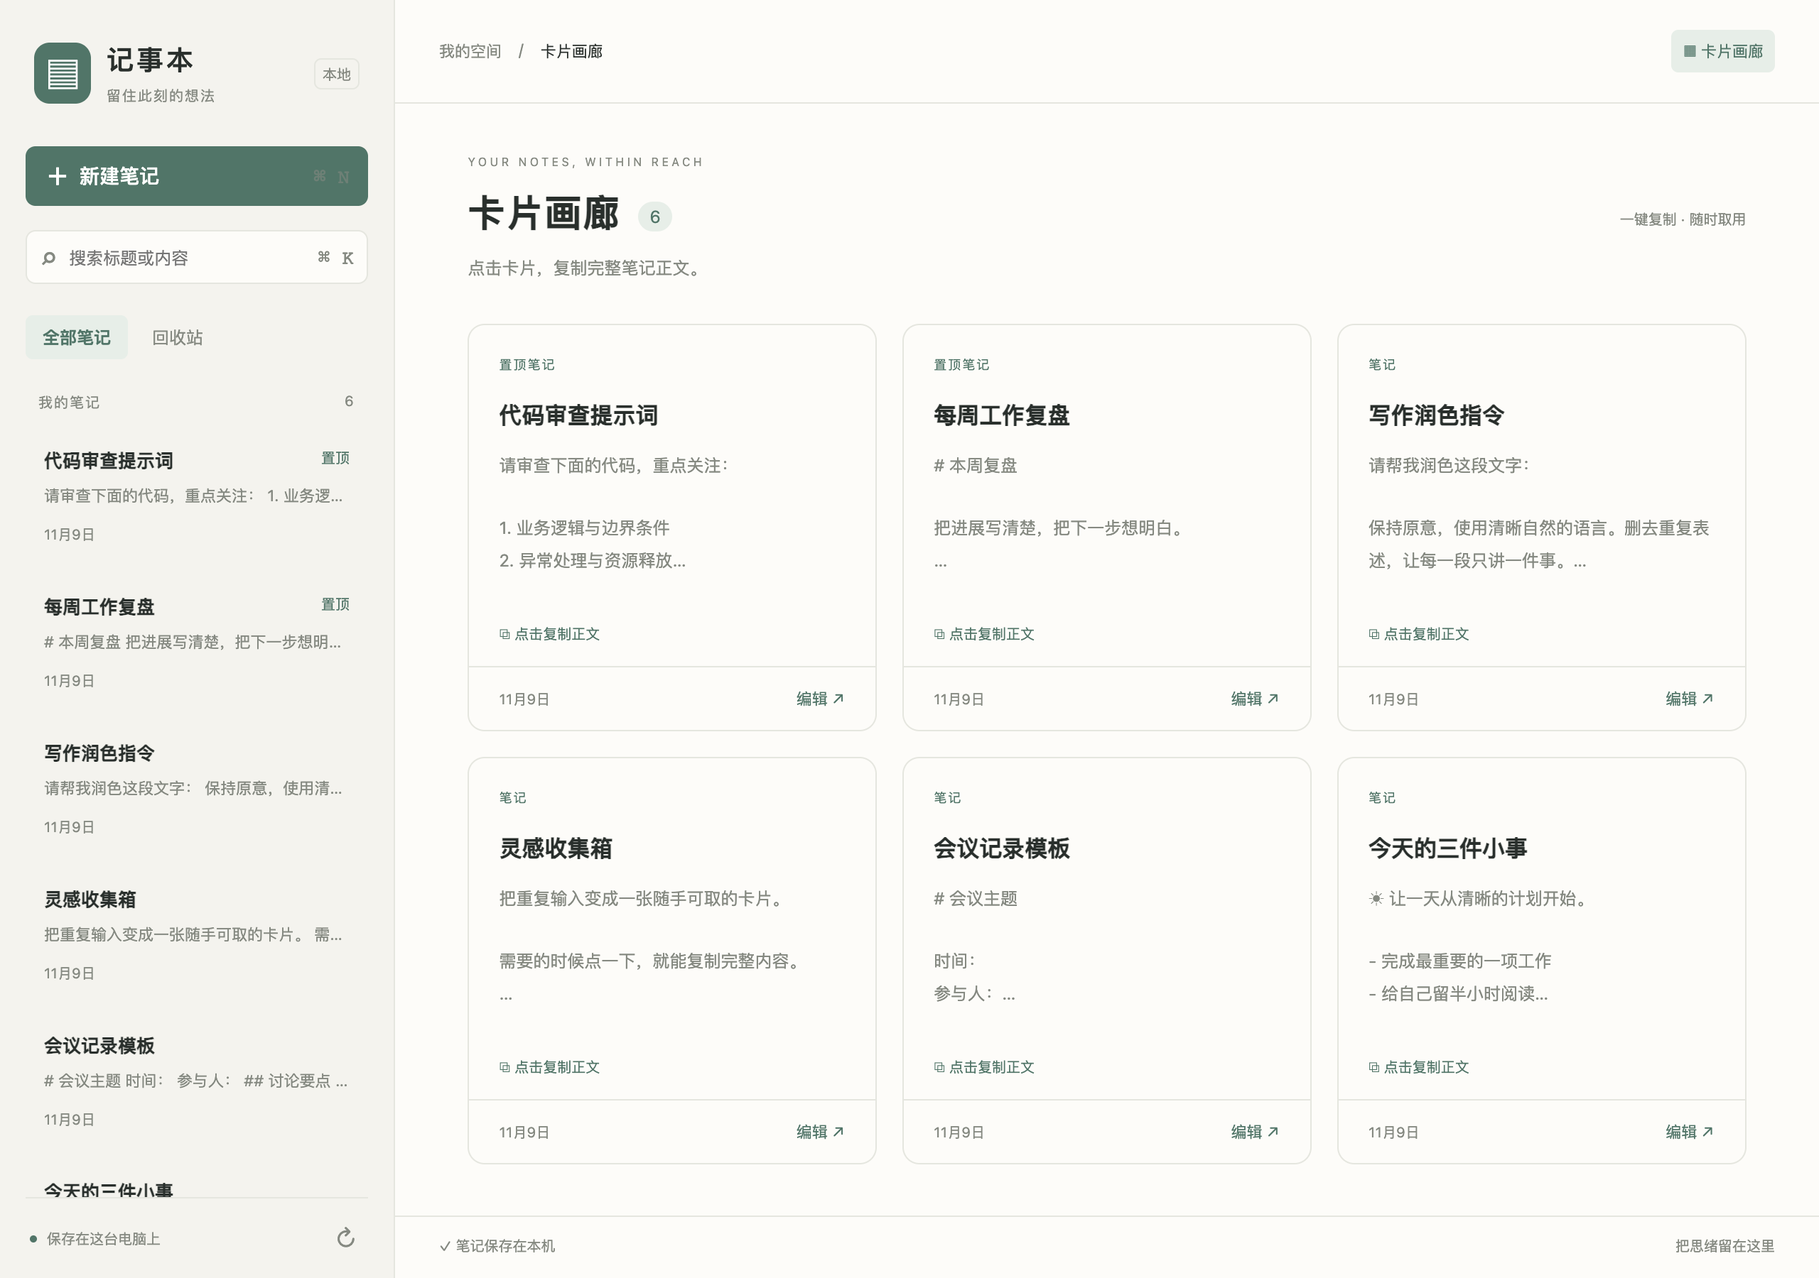
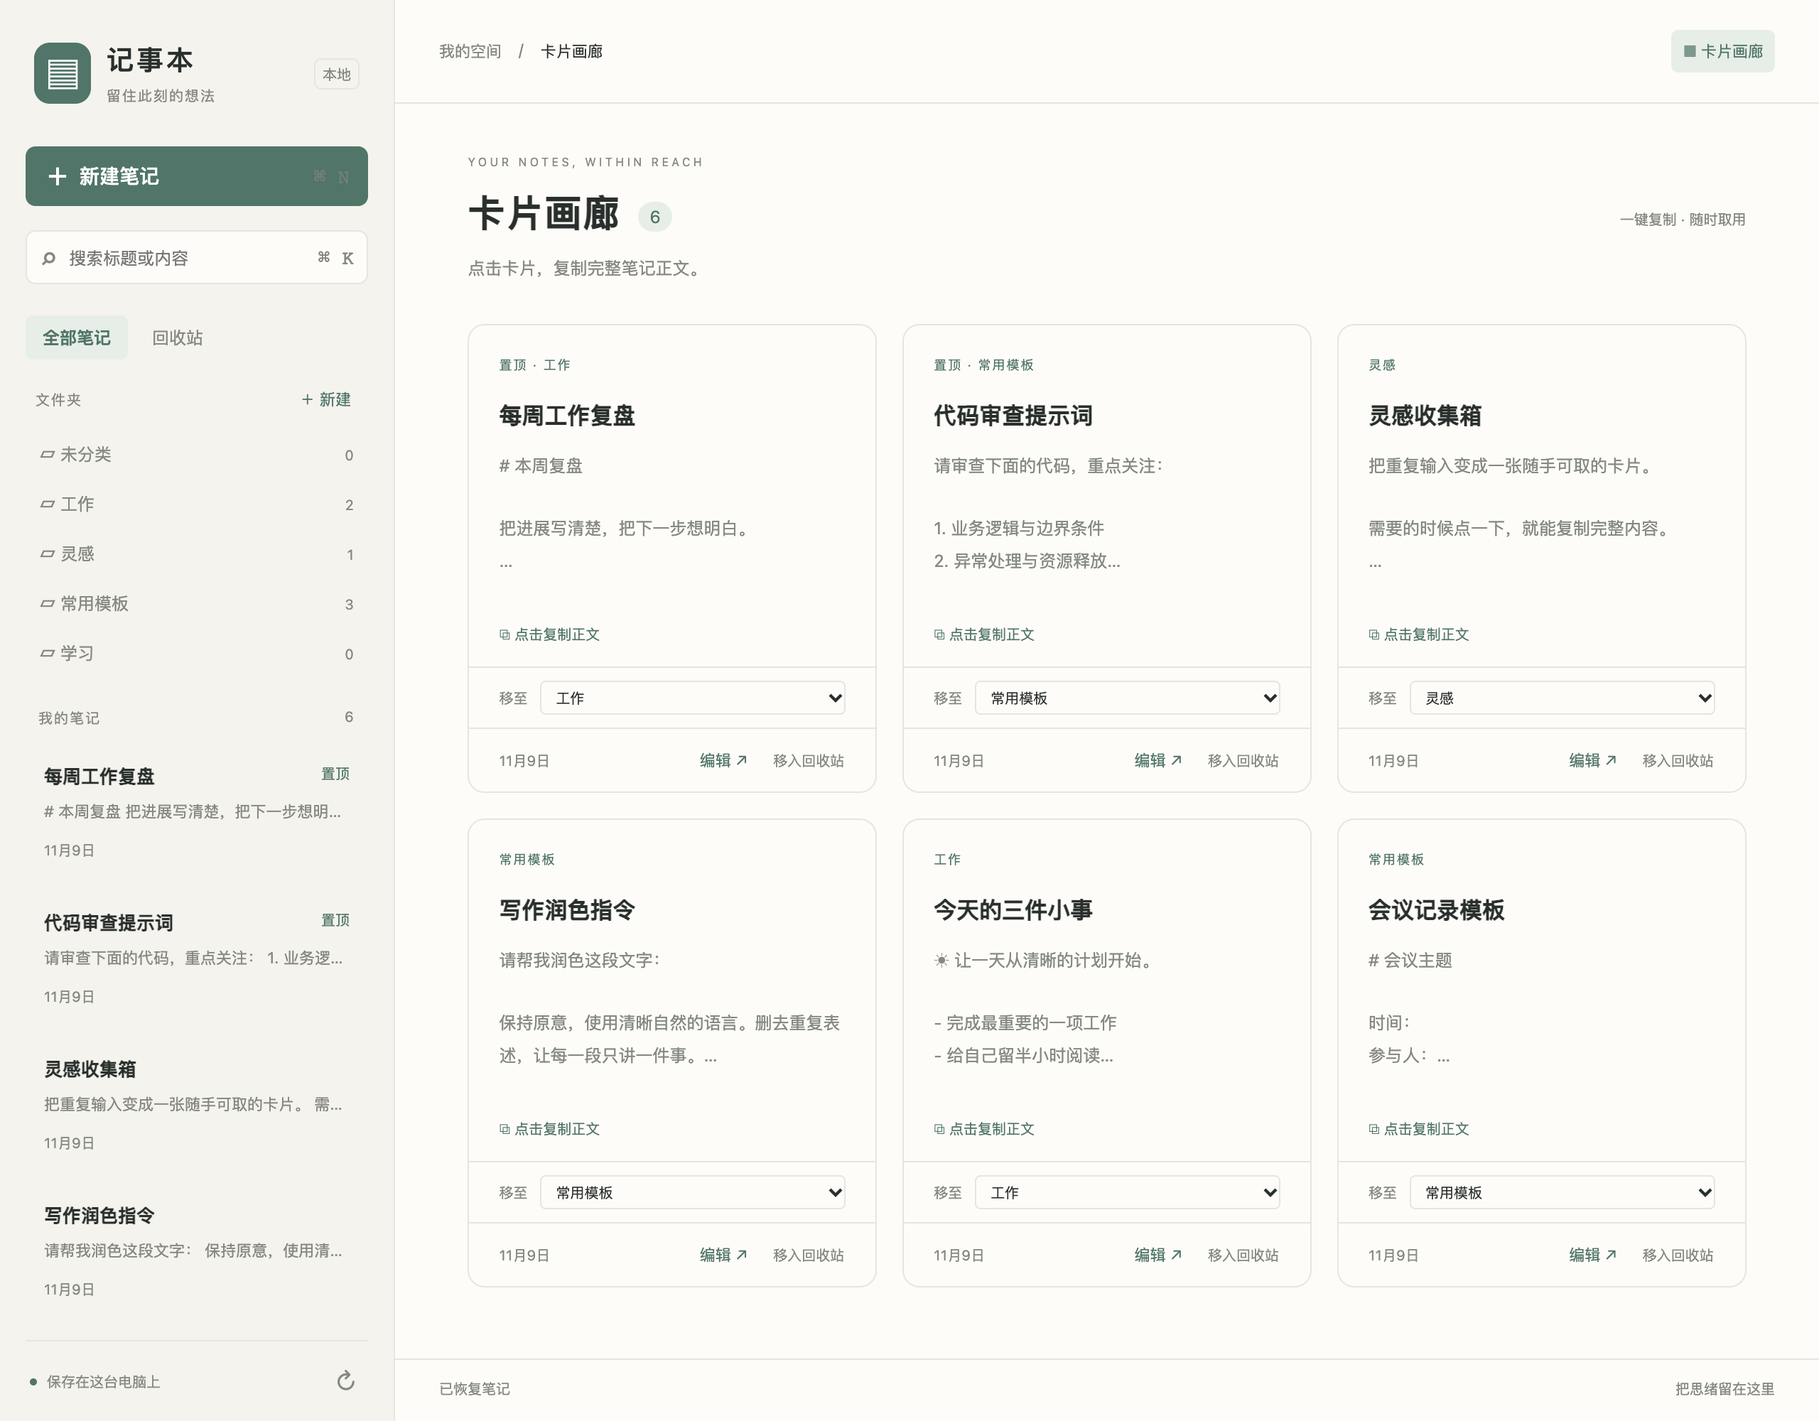
Add note folders and quick trash actions on gallery cards

diff --git a/web/style.css b/web/style.css
@@ -6,3 +6,4 @@
 @media(max-width:740px){.notebook{grid-template-columns:215px minmax(0,1fr)}.sidebar{padding:20px 12px 0}.brand{margin-bottom:22px;gap:8px}.brand small{font-size:9px}.brand-icon{width:33px;height:37px}.local-badge,.search kbd,.new-note kbd{display:none}.toolbar{padding:0 17px;min-height:60px;flex-wrap:wrap;align-content:center;gap:5px}.toolbar-actions button{padding:5px;font-size:10px}.breadcrumb{font-size:10px}.editor{padding:30px 22px 20px}.title-input{font-size:25px}.editor-footer{padding:12px 17px}.empty{padding:20px 15px}.empty h1{font-size:21px}.eyebrow{font-size:7px;letter-spacing:1px}}
 @media(max-width:470px){.notebook{grid-template-columns:145px minmax(0,1fr)}.sidebar{padding:17px 8px 0}.brand{margin:0 0 20px;gap:7px}.brand small{display:none}.brand strong{font-size:16px}.brand-icon{width:28px;height:31px;font-size:23px}.filters{gap:1px}.filters button{padding:7px;font-size:10px}.sidebar-footer{font-size:8px;gap:4px}.search{padding:7px 5px}.search input{font-size:10px}.note-card{padding:12px 8px}.editor{padding:24px 15px}.title-input{font-size:21px}.toolbar{padding:0 10px}.empty h1{font-size:17px;letter-spacing:0}.empty-art{transform:scale(.8)}.eyebrow{display:none}.editor-footer{padding:12px 10px;font-size:9px}.breadcrumb span:last-child{max-width:90px}.toolbar-actions{flex-wrap:wrap}.error-banner{margin:10px;padding:9px}.error-banner div{flex-wrap:wrap}}
 .gallery{flex:1;overflow:auto;padding:36px clamp(20px,4vw,56px) 40px}.gallery-heading{display:flex;align-items:center;justify-content:space-between;gap:18px;margin-bottom:29px}.gallery-heading .eyebrow{margin:0 0 12px}.gallery-heading h1{font-size:26px;font-weight:550;letter-spacing:1px;margin:0 0 11px}.gallery-heading h1 span{font-size:12px;font-weight:400;letter-spacing:0;background:var(--green-soft);color:var(--green);padding:3px 8px;border-radius:20px;margin-left:12px;vertical-align:middle}.gallery-heading p:last-child{font-size:12px;color:var(--muted);margin:0;line-height:1.7}.gallery-hint{font-size:10px;color:var(--muted);white-space:nowrap}.gallery-grid{display:grid;grid-template-columns:repeat(auto-fill,minmax(min(100%,235px),1fr));gap:18px;align-items:start}.gallery-card{background:var(--paper);border:1px solid var(--line);border-radius:12px;overflow:hidden;transition:border-color .15s,box-shadow .15s,transform .15s;min-width:0}.gallery-card:hover{border-color:var(--green);box-shadow:0 6px 22px #00000009;transform:translateY(-2px)}.gallery-copy{display:flex;flex-direction:column;width:100%;height:240px;text-align:left;padding:21px 21px 15px;position:relative}.gallery-copy:hover{background:var(--green-soft)}.gallery-copy:focus-visible{outline-offset:-4px;border-radius:11px}.gallery-card-label{font-size:9px;letter-spacing:1px;color:var(--green);margin-bottom:17px}.gallery-copy h2{font-size:16px;font-weight:550;line-height:1.6;margin:0 0 11px;display:-webkit-box;-webkit-line-clamp:2;-webkit-box-orient:vertical;overflow:hidden;overflow-wrap:anywhere;flex-shrink:0}.gallery-copy p{font-size:12px;line-height:1.85;white-space:pre-wrap;overflow-wrap:anywhere;color:var(--muted);margin:0;display:-webkit-box;-webkit-line-clamp:4;-webkit-box-orient:vertical;overflow:hidden}.gallery-copy-hint{margin-top:auto;padding-top:16px;font-size:10px;color:var(--green)}.gallery-card footer{display:flex;align-items:center;justify-content:space-between;border-top:1px solid var(--line);padding:9px 15px 9px 21px;font-size:10px;color:var(--muted)}.gallery-edit{font-size:11px;padding:5px 7px;border-radius:5px;color:var(--green)}.gallery-empty{display:flex;flex-direction:column;align-items:center;justify-content:center;min-height:310px;text-align:center;color:var(--muted);border:1px dashed var(--line);border-radius:12px;padding:25px}.gallery-empty>span{font-size:42px;color:var(--green);opacity:.6}.gallery-empty h2{font-size:17px;font-weight:500;color:var(--ink);margin:19px 0 10px}.gallery-empty p{font-size:12px;line-height:1.8;margin:0 0 23px}.gallery-empty button{font-size:12px;padding:10px 17px}.copy-toast{position:fixed;bottom:58px;left:50%;transform:translateX(-50%);z-index:10;max-width:min(90vw,500px);padding:12px 20px;border-radius:9px;background:var(--ink);color:var(--paper);box-shadow:0 6px 25px #0003;font-size:12px;line-height:1.7;overflow-wrap:anywhere;pointer-events:none}.copy-toast.failed{background:var(--error);color:white}@media(max-width:740px){.gallery{padding:28px 20px}.gallery-hint{display:none}.gallery-heading h1{font-size:23px}.gallery-grid{gap:13px}.gallery-copy{height:220px;padding:18px 17px 13px}.gallery-card footer{padding-left:17px}}@media(max-width:470px){.gallery{padding:23px 12px}.gallery-heading h1{font-size:20px}.gallery-heading h1 span{margin-left:6px}.gallery-copy{padding:15px 12px;height:215px}.gallery-card footer{padding-left:12px}.gallery-empty{padding:20px 12px}.gallery-empty h2{font-size:14px}.toolbar-actions{flex-shrink:1}}
+.folder-section{margin-bottom:20px}.folder-heading{display:flex;align-items:center;justify-content:space-between;padding:0 7px 7px;font-size:10px;letter-spacing:1px;color:var(--muted)}.folder-heading button{font-size:11px;letter-spacing:0;border-radius:4px;padding:5px;color:var(--green)}.folder-list{max-height:180px;overflow-y:auto}.folder-item{display:flex;align-items:center;justify-content:space-between;gap:10px;width:100%;text-align:left;padding:8px 10px;border-radius:5px;margin:2px 0;font-size:12px;color:var(--muted)}.folder-item>span:first-child{overflow:hidden;text-overflow:ellipsis;white-space:nowrap}.folder-count{font-size:10px;flex-shrink:0}.folder-item.active{background:var(--green-soft);color:var(--green);font-weight:550}.folder-form{padding:8px;border:1px solid var(--line);border-radius:6px;margin:2px 0 8px}.folder-form input{width:100%;min-width:0;border:1px solid var(--line);border-radius:4px;padding:7px;background:var(--paper);font-size:12px}.folder-form>div{display:flex;gap:7px;justify-content:flex-end;margin-top:7px}.folder-form button{font-size:11px;color:var(--green);padding:5px 8px;border-radius:4px}.folder-form p{font-size:11px;color:var(--error);line-height:1.6;margin:6px 0 0}.gallery-heading h1 #gallery-title{font-size:inherit;font-weight:inherit;letter-spacing:inherit;background:none;color:inherit;padding:0;border-radius:0;margin-left:0;vertical-align:baseline;overflow-wrap:anywhere}.gallery-card-actions{display:flex;align-items:center;gap:4px;flex-shrink:0}.gallery-trash{font-size:10px;border-radius:5px;padding:5px 7px;color:var(--muted)}.gallery-trash:hover{color:var(--error);background:#a14c4212}.gallery-folder{display:flex;align-items:center;gap:9px;padding:9px 21px;border-top:1px solid var(--line);font-size:10px;color:var(--muted)}.gallery-folder select,.editor-folder select{font:inherit;border:1px solid var(--line);border-radius:4px;padding:4px 6px;background:var(--paper);color:var(--ink);min-width:0;max-width:100%}.gallery-folder select{flex:1;width:0}.editor-folder{display:flex;align-items:center;gap:6px;margin-left:auto;max-width:45%;min-width:0}.editor-folder select{max-width:160px;width:100%}.note-meta{flex-wrap:wrap}.filters{margin-bottom:15px}@media(max-width:740px){.gallery-folder{padding:8px 17px}.editor-folder{margin-left:0;max-width:100%}}@media(max-width:470px){.folder-item{font-size:10px;padding:7px}.folder-heading{padding-left:5px}.folder-list{max-height:140px}.gallery-folder{padding:8px 12px}.gallery-card footer{flex-wrap:wrap;gap:5px}.editor-folder select{max-width:130px}}

diff --git a/web/index.html b/web/index.html
@@ -8,6 +8,15 @@
     <button class="new-note" id="new-note"><span aria-hidden="true">＋</span> 新建笔记 <kbd>⌘ N</kbd></button>
     <label class="search"><span aria-hidden="true">⌕</span><input id="search" type="search" placeholder="搜索标题或内容" aria-label="搜索笔记" maxlength="500"><kbd>⌘ K</kbd></label>
     <nav class="filters" aria-label="笔记分类"><button id="active-filter" class="active" aria-pressed="true">全部笔记</button><button id="trash-filter" aria-pressed="false">回收站</button></nav>
+    <section class="folder-section" aria-label="文件夹">
+      <div class="folder-heading"><span>文件夹</span><button id="new-folder" aria-expanded="false" aria-controls="folder-form" title="新建文件夹">＋ 新建</button></div>
+      <form id="folder-form" class="folder-form" hidden>
+        <label class="sr-only" for="folder-name">文件夹名称</label><input id="folder-name" placeholder="文件夹名称" maxlength="80" required autocomplete="off">
+        <div><button type="submit" id="create-folder">创建</button><button type="button" id="cancel-folder">取消</button></div>
+        <p id="folder-error" role="alert" hidden></p>
+      </form>
+      <nav id="folder-list" class="folder-list" aria-label="按文件夹筛选"></nav>
+    </section>
     <div class="list-heading"><span id="list-heading">我的笔记</span><span id="note-count">0</span></div>
     <div id="note-list" class="note-list" role="list" aria-label="笔记列表"></div>
     <footer class="sidebar-footer"><span class="dot"></span> 保存在这台电脑上 <button id="refresh" title="重新加载列表" aria-label="重新加载列表">↻</button></footer>
@@ -16,13 +25,13 @@
     <header class="toolbar"><div class="breadcrumb">我的空间 <span>/</span> <span id="current-label">卡片画廊</span></div><div class="toolbar-actions"><button id="gallery-toggle" aria-pressed="true">▦ 卡片画廊</button><button id="preview-toggle" hidden aria-pressed="false">预览</button><button id="export-note" hidden>导出</button><button id="pin-note" hidden aria-pressed="false">置顶</button><button id="trash-note" hidden class="danger">移入回收站</button><button id="restore-note" hidden>恢复笔记</button></div></header>
     <div id="error-banner" class="error-banner" role="alert" hidden><span id="error-message"></span><div><button id="save-copy">另存为新笔记</button><button id="reload-note">重新加载</button><button id="retry-save">重试保存</button></div></div>
     <section id="gallery" class="gallery" aria-label="笔记卡片画廊">
-      <header class="gallery-heading"><div><p class="eyebrow">YOUR NOTES, WITHIN REACH</p><h1>卡片画廊<span id="gallery-count">0</span></h1><p>点击卡片，复制完整笔记正文。</p></div><span class="gallery-hint">一键复制 · 随时取用</span></header>
+      <header class="gallery-heading"><div><p class="eyebrow">YOUR NOTES, WITHIN REACH</p><h1><span id="gallery-title">卡片画廊</span><span id="gallery-count">0</span></h1><p>点击卡片，复制完整笔记正文。</p></div><span class="gallery-hint">一键复制 · 随时取用</span></header>
       <div id="gallery-grid" class="gallery-grid"></div>
       <div id="gallery-empty" class="gallery-empty"><span aria-hidden="true">▤</span><h2 id="gallery-empty-title">把常用的内容，放在手边。</h2><p id="gallery-empty-text">新建一篇笔记，就会在这里生成卡片。</p><button id="gallery-create" class="primary">＋ 新建笔记</button></div>
     </section>
     <section id="empty" class="empty"><div class="empty-art" aria-hidden="true"><svg width="100" height="115" viewBox="0 0 100 115" fill="none"><rect x="19" y="11" width="66" height="90" rx="8" transform="rotate(7 19 11)" fill="currentColor" opacity=".10"/><rect x="13" y="6" width="66" height="90" rx="8" fill="var(--paper)" stroke="currentColor" stroke-width="1.5"/><path d="M31 32h31M31 44h31M31 56h19M23 6v90" stroke="currentColor" stroke-width="1.5" opacity=".4"/><path d="m65 79 20-20 7 7-20 20-10 3 3-10Z" fill="var(--paper)" stroke="currentColor" stroke-width="1.5"/></svg></div><p class="eyebrow">A LITTLE SPACE FOR YOUR THOUGHTS</p><h1>想到了，就记下来。</h1><p id="empty-description">一个想法、一段灵感，或今天的小事。<br>在这里，给它们一个安静的位置。</p><button id="empty-create" class="primary">写下第一篇笔记 <span aria-hidden="true">↗</span></button><small>支持 Markdown · 自动保存 · 本地存储</small></section>
     <section id="editor" class="editor" hidden>
-      <div class="note-meta"><span class="note-type">✎ 笔记</span><span id="note-date"></span></div>
+      <div class="note-meta"><span class="note-type">✎ 笔记</span><span id="note-date"></span><label class="editor-folder">文件夹 <select id="note-folder" aria-label="笔记所属文件夹"></select></label></div>
       <label class="sr-only" for="note-title">笔记标题</label><input id="note-title" class="title-input" placeholder="无标题笔记" maxlength="500" autocomplete="off">
       <div class="editor-rule"></div>
       <label class="sr-only" for="note-content">笔记正文</label><textarea id="note-content" placeholder="从这里开始记录…&#10;&#10;支持 Markdown，按 ⌘ S 立即保存。" maxlength="2000000" spellcheck="false"></textarea>

diff --git a/README.md b/README.md
@@ -16,11 +16,13 @@
 
 **安装 agent：请完整阅读本文，并按下方「Agent 安装协议」操作。不要复制他人电脑上的 MCP 配置。**
 
-仓库：[Drok1015/codex-notepad](https://github.com/Drok1015/codex-notepad) · 许可证：[MIT](LICENSE) · 当前版本：`0.3.0`
+仓库：[Drok1015/codex-notepad](https://github.com/Drok1015/codex-notepad) · 许可证：[MIT](LICENSE) · 当前版本：`0.4.0`
 
 ## 功能
 
 - 卡片画廊，点击卡片复制完整笔记正文，保留 Markdown、Unicode 和换行，不含独立标题字段。
+- 左侧支持新建文件夹、按文件夹筛选以及「未分类」。卡片和编辑器中的文件夹下拉框可移动笔记；在文件夹下新建笔记会自动归入该文件夹。
+- 卡片底部可直接「移入回收站」，不会触发复制；从回收站恢复时保留原文件夹。
 - 标题与正文搜索、置顶、新建、编辑、650 毫秒自动保存。
 - Markdown 安全预览、单篇 Markdown 导出。
 - 回收站及恢复，无永久删除功能。
@@ -81,7 +83,7 @@ npm run install:plugin
 npm run verify:plugin
 ```
 
-4. **核对结果。** 以上命令应全部退出码为 0。安装器将本机状态写入 `.local/install.json`，其 `pluginId` 应为 `local-notepad@codex-notepad`，`version` 应与 `package.json` 一致。`verify:plugin` 必须显示「验证通过」，它会从实际缓存目录的 `.mcp.json` 原样启动服务，核对版本、8 个工具、图标、两个入口及画廊 UI。
+4. **核对结果。** 以上命令应全部退出码为 0。安装器将本机状态写入 `.local/install.json`，其 `pluginId` 应为 `local-notepad@codex-notepad`，`version` 应与 `package.json` 一致。`verify:plugin` 必须显示「验证通过」，它会从实际缓存目录的 `.mcp.json` 原样启动服务，核对版本、10 个工具、图标、两个入口及文件夹画廊 UI。
 5. **核对界面。** 请用户完全退出并重新打开桌面应用。只有实际观察到「记事本」入口与卡片画廊，才能报告界面验证通过。如果工具不能访问应用界面，明确写「服务验证通过；界面待用户确认」，不要将预览网页或工具列表当成侧边栏显示的证据。不要自动结束用户正在进行的聊天或强制退出应用。
 6. **报告。** 提供安装版本、插件 ID、测试和握手结果、是否验证实际界面，以及下一步。任何阶段失败都先定位该阶段，不能跳过失败继续声称安装完成。
 
@@ -105,6 +107,8 @@ bash scripts/install.sh
 ```
 
 重启桌面应用后生效。更新不会删除笔记。更换机器、移除所用 Node 版本，或移动用于插件源的源码目录后，应重新执行安装器。若提示同名 marketplace 已来自旧目录，先检查 `codex plugin marketplace list`；只有确认旧目录属于本插件后，才移除该源并在新目录重新安装。
+
+0.4.0 会自动为旧数据库添加文件夹表和笔记的 `folder_id` 列。原笔记默认归入「未分类」，保留正文、ID、置顶、时间、版本及回收站状态。文件夹为单层分类，当前提供新建与移动，不提供重命名、删除或嵌套。
 
 卸载本插件：
 
@@ -157,12 +161,14 @@ NOTEPAD_DATA_DIR=/tmp/codex-notepad-demo npm start
 | 路径 | 职责 |
 | --- | --- |
 | `server/store.mjs` | SQLite 持久化、版本检查和回收站 |
-| `server/index.mjs`、`server/tools.mjs` | MCP 服务、UI 资源和 8 个工具 |
+| `server/index.mjs`、`server/tools.mjs` | MCP 服务、UI 资源和 10 个工具 |
 | `server/clipboard.mjs` | macOS UTF-8 剪贴板写入 |
 | `web/` | 画廊、编辑器和经过 DOMPurify 处理的 Markdown 预览 |
 | `scripts/install.sh`、`scripts/install.mjs` | 依赖、构建、测试、路径探测和安装 |
 | `scripts/verify.mjs` | 实际缓存包的握手与入口验证 |
 | `tests/` | 存储、冲突、UI、复制和含中文空格目录的安装测试 |
+
+文件夹工具：`list_folders` 返回文件夹和有效笔记数量，`create_folder` 新建文件夹。`list_notes` 的 `folderId` 省略时查询所有分类、传 `null` 查询未分类、传 UUID 查询指定文件夹；搜索词与分类同时生效。`create_note` 可传 `folderId`，`update_note` 使用最新 `version` 更新 `folderId`（`null` 移回未分类）。移动与删除均执行版本冲突检查。
 
 维护要求：修改安装、工具契约、功能或最低版本时，同步更新本 README、`AGENTS.md` 和测试。版本发布时同步 `package.json`、锁文件、插件 manifest、MCP serverInfo、前端 App 版本与本 README；UI 发生不兼容变更时升级资源 URI。CI 在 macOS 和 Linux 上构建测试；Linux 跳过 macOS 安装集成测试。
 

diff --git a/AGENTS.md b/AGENTS.md
@@ -7,4 +7,5 @@
 - 开发时，安装脚本、功能、工具契约或最低版本变更，必须同时更新 README 和相关测试。
 - 只运行测试和构建不会安装插件。未经用户安装意图，不运行 `scripts/install.sh` 或 `install:plugin`。
 - 测试使用临时数据库和模拟剪贴板；不要读取个人笔记或覆盖实际剪贴板来测试。
+- 修改文件夹功能时覆盖旧数据库迁移、未分类、文件夹计数、移动的版本冲突与回收站恢复后的分类保留；卡片的编辑、移动和回收站操作不得触发复制。
 - 提交前运行 `npm run build` 和 `npm test`。不提交生成目录、本机路径、笔记、环境变量或凭据。

diff --git a/CHANGELOG.md b/CHANGELOG.md
@@ -1,5 +1,12 @@
 # Changelog
 
+## 0.4.0
+
+- 左侧文件夹创建与筛选，卡片和编辑器可移动笔记，新笔记继承当前文件夹。
+- 卡片增加便捷「移入回收站」按钮，恢复后保留原文件夹。
+- 旧数据库自动迁移，原有笔记归入未分类，内容与元数据保留。
+- 新增 `list_folders`、`create_folder` 工具，并为笔记工具增加 `folderId` 参数。
+
 ## 0.3.0
 
 - 首个开源分发版本，MIT 许可。
